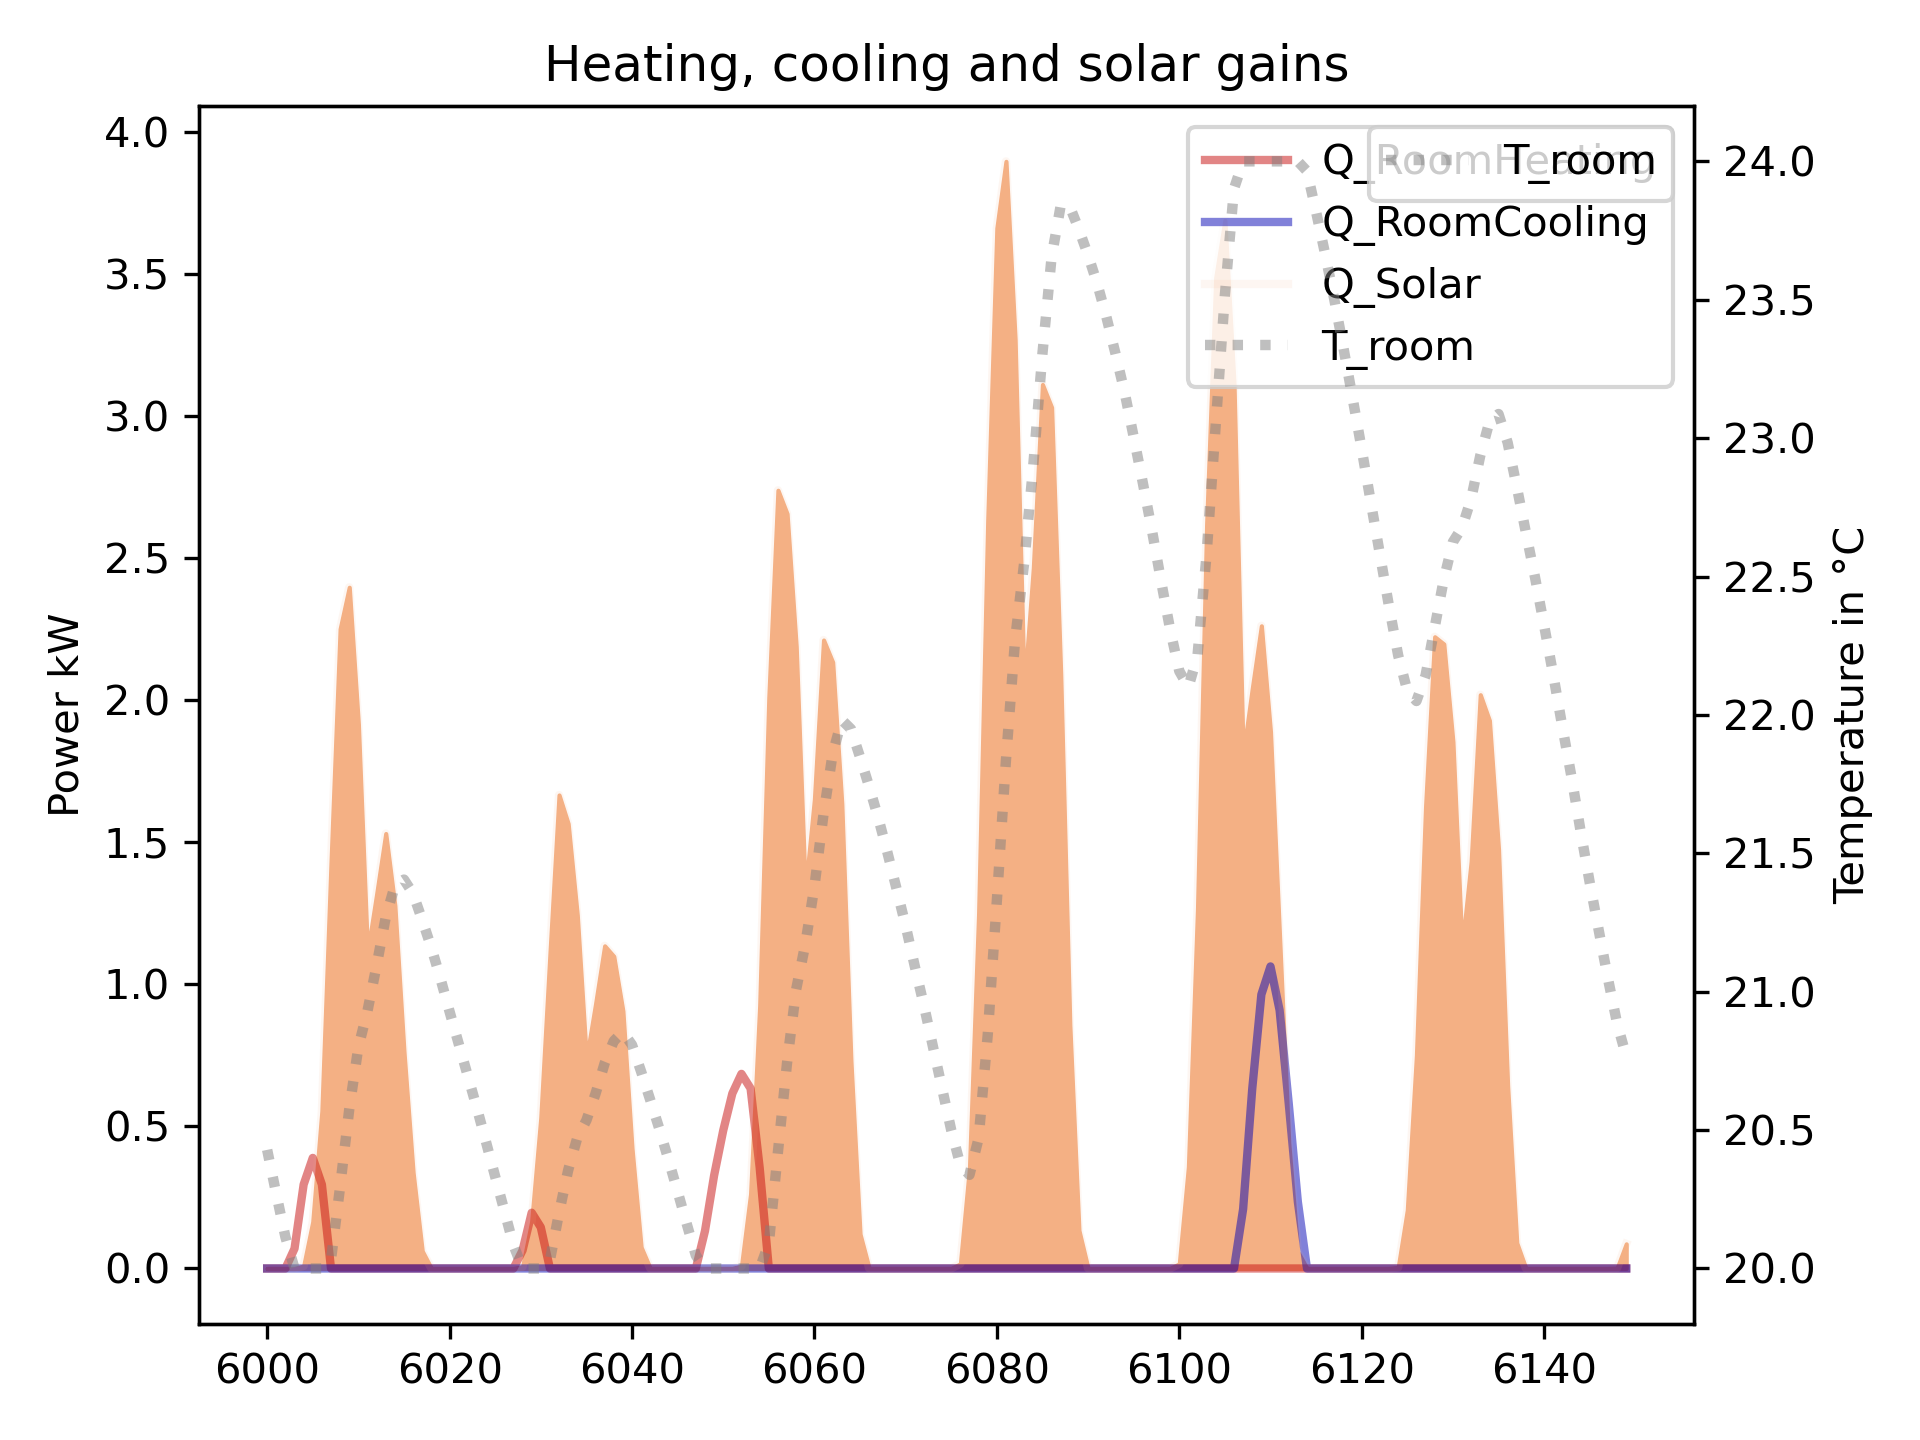
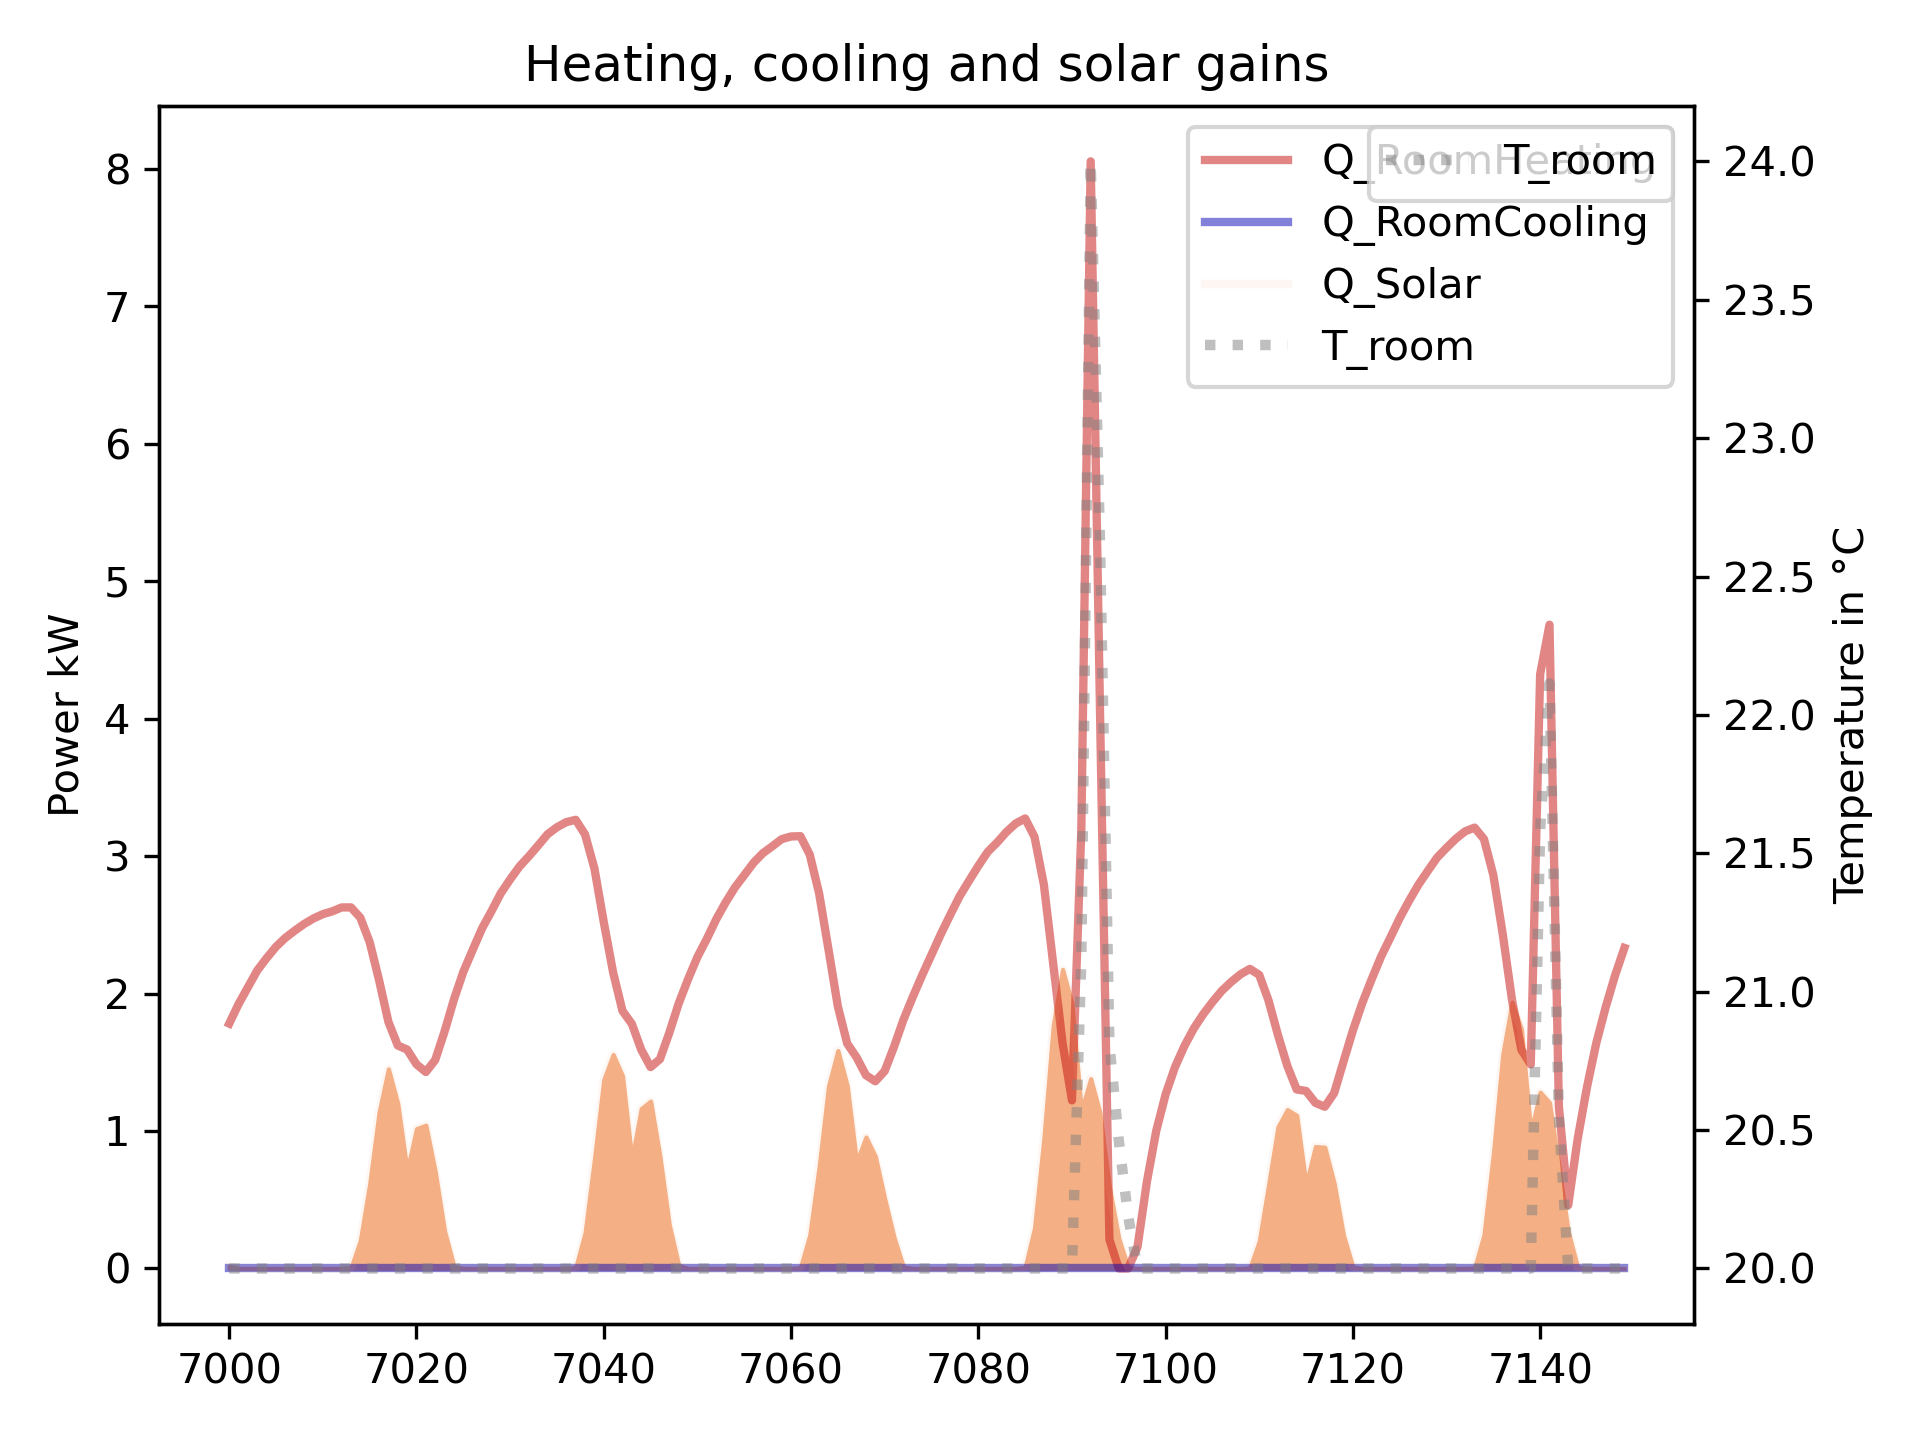
Meeting ReadMe Update

diff --git a/C_Model/C2_OperationOptimization/C21_OperationOptimization.py b/C_Model/C2_OperationOptimization/C21_OperationOptimization.py
@@ -156,6 +156,8 @@ class OperationOptimization:
         Htr_2 = Htr_1 + Htr_w
         # Equ.C.8
         Htr_3 = 1 / (1 / Htr_2 + 1 / Htr_ms)
+
+        # Calculation of solar gains
         path2excel = CONS().DatabasePath
         # window areas in celestial directions
         Awindows_rad_east_west = Household.Building.average_effective_area_wind_west_east_red_cool
@@ -405,8 +407,8 @@ class OperationOptimization:
 # create plots to visualize results price
 def show_results(instance, HoursOfSimulation, ListOfDynamicCOP, M_WaterTank, CWater, colors):
 
-    starttime = 6000
-    endtime = 6150
+    starttime = 7000
+    endtime = 7150
 
     # exogenous profiles
     ElectricityPrice = np.array(list(instance.ElectricityPrice.extract_values().values())[starttime: endtime])

diff --git a/A_Infrastructure/A1_Config/A12_Register.py b/A_Infrastructure/A1_Config/A12_Register.py
@@ -81,6 +81,8 @@ class REG:
         self.Gen_Sce_DryerUseDays = self.GeneratedData + self.Scenario + "DryerWorkingDays"
         self.Gen_Sce_WashingMachineUseDays = self.GeneratedData + self.Scenario + "WashingMachineWorkingDays"
 
+        # Gen_Sce_SolarRadiationDirections...
+
         # Result tables
         self.Res_MinimizedOperationCost = self.Result + "MinimizedOperationCost" #3: col: IDHH, col IDEnvi, col: cost
         self.Res_SystemOperation = self.Result + "SystemOperation" #4: col: IDHH, col IDEnvi, , col: IDHour, col: technologies

diff --git a/C_Model/C1_TableGenerator/C11_Ope_TableGenerator.py b/C_Model/C1_TableGenerator/C11_Ope_TableGenerator.py
@@ -296,11 +296,13 @@ class Ope_TableGenerator:
         # self.gen_OBJ_ID_PV()
         # self.gen_OBJ_ID_Battery()
         # self.gen_OBJ_ID_ElectricVehicle()
-        self.gen_OBJ_ID_Household()
+        # self.gen_OBJ_ID_Household()
 
         # self.gen_Sce_Demand_DishWasherUseDays()
         # self.gen_Sce_Demand_DryerUseDays()
         # self.gen_Sce_Demand_WashingMachineUseDays()
 
         # self.gen_Sce_ID_Environment()
+
+        # +Radiation
         pass

diff --git a/README.md b/README.md
@@ -65,9 +65,9 @@ Hey, check this out: [Prosumager](https://songminyu.github.io/Prosumager/).
 
 To calculate a reference "operation cost" for the overall system, we need to swithing off the optimization for all the aspects.
 
-> - Appliance: we have the property for this
-> - PV, Battery and EV: options with zero area or capacity, which also represents the "not adopted" situation
-> - Space heating and cooling: set extra constraint on the tank and room temperature and set it constant
+> 1. Appliance: we have the property for this
+> 2. PV, Battery and EV: options with zero area or capacity, which also represents the "not adopted" situation
+> 3. Space heating and cooling: set extra constraint on the tank and room temperature and set it constant
 
 Based on this reference point, we can add all the flexibility one by one and show the contribution to reduce the overall cost.
 
@@ -82,4 +82,6 @@ The hourly optimization of space heating requires a minimum power (boundary) of 
 #### 5.5 Database Solar radiation
 The solar radiation from different cilestial directions is calculated for germany only at the time being. 
 (with longitude and altitude = Würzburg) How can we integrate this into the SQLite database?
+
+- The temperature of each country is the average of all 10x10 km regions
 
